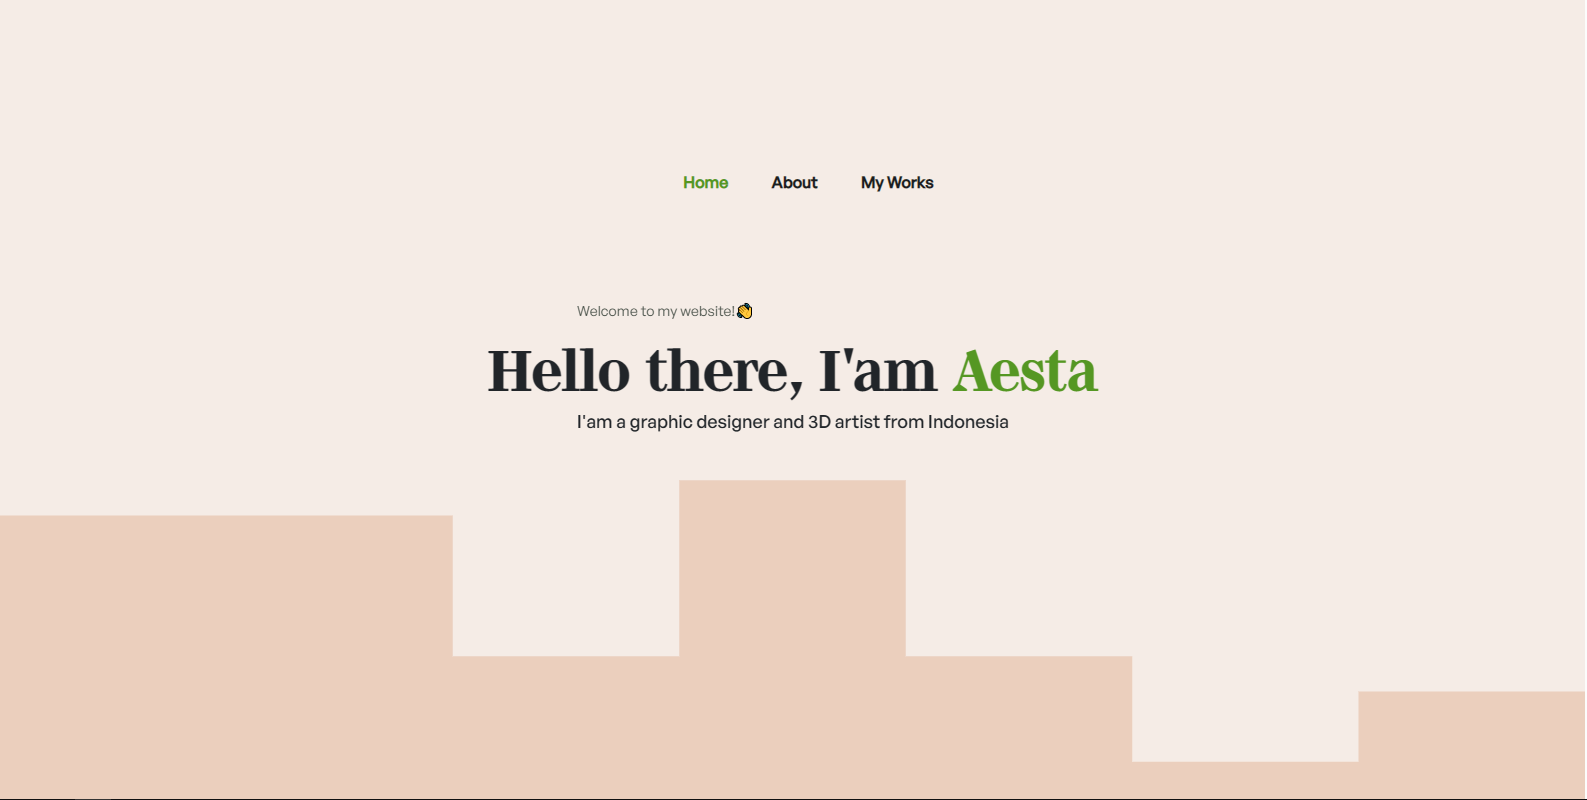
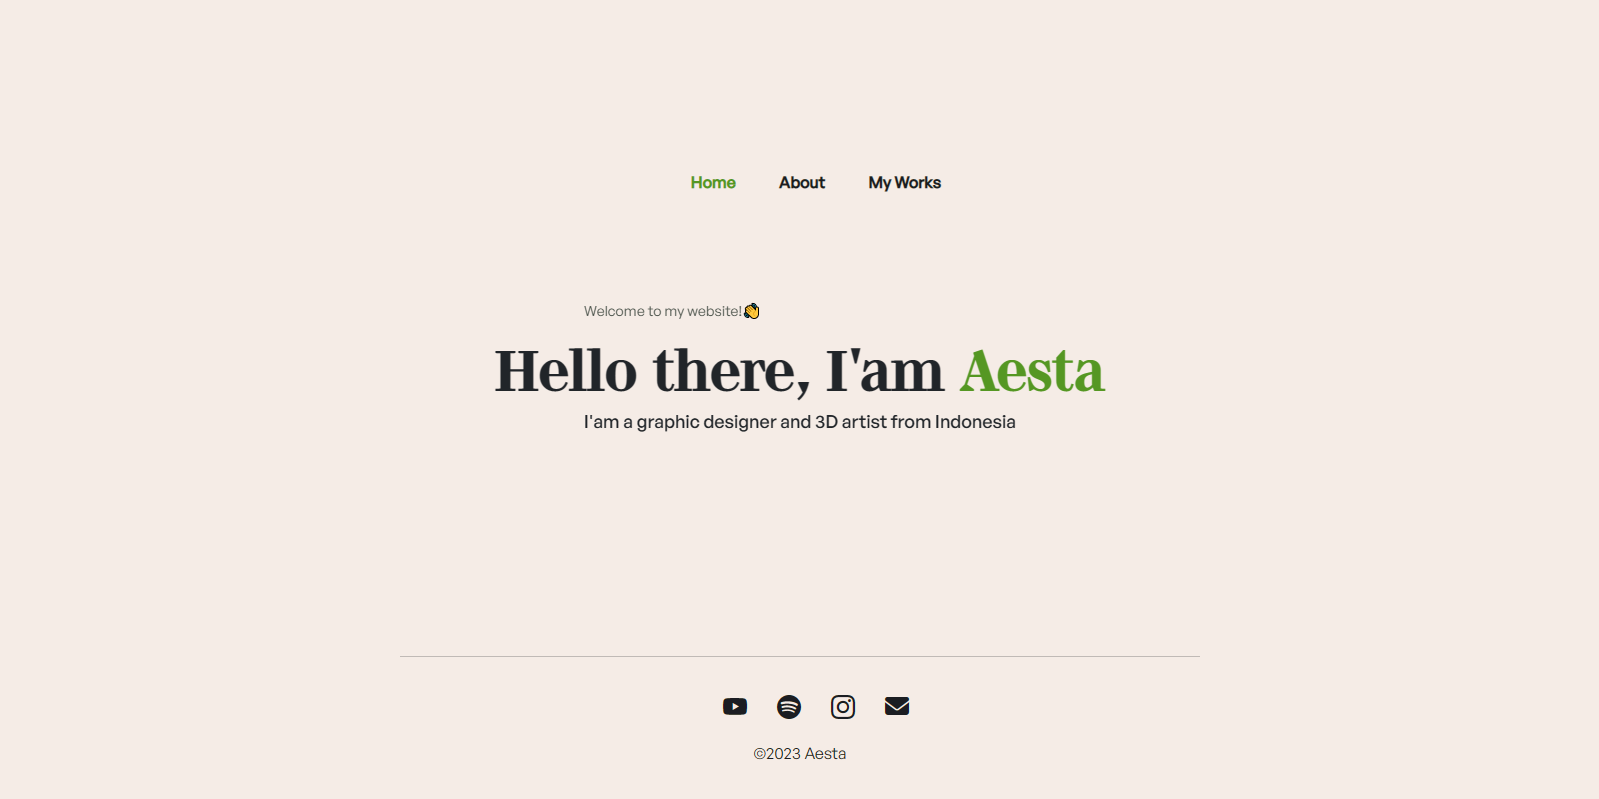
tambahan

diff --git a/about.html b/about.html
@@ -29,9 +29,9 @@
               <div class="col">
                 <nav>
                   <ul>
-                    <li><a href="./index.html">Home</a></li>
-                    <li><a href="./about.html"><span style="color: #559723">About</span></a></li>
-                    <li><a href="./works.html">My Works</a></li>
+                    <li><a href="./home">Home</a></li>
+                    <li><a href="./about"><span style="color: #559723">About</span></a></li>
+                    <li><a href="./works">My Works</a></li>
                   </ul>
                 </nav>
               </div>
@@ -41,21 +41,23 @@
             </div>
             <div class="row justify-content-center" style="padding-top: 3rem;">
               <div class="col-md-4 mb-5" data-aos="fade-right" data-aos-duration="1000">
-                <img src="img/ProfilePictureWow2.png" alt="index.html" width="300" class="rounded-circle">
+                <img src="img/ProfilePictureWow2.png" alt="Profike" width="300" class="rounded-circle">
               </div>
-              <div class="col-md-6" data-aos="fade-left" data-aos-duration="1000">
+              <div class="col-md-4" data-aos="fade-left" data-aos-duration="1000">
                 <p class="about-paraph">Yo hello! I'm Azmi also known as Aesta. A graphic designer based in Indonesia. I have loved making graphic designs since I was grade 5. Also I'm interesting on web designing, photography, 3D modeling, drawing, and editing. <a class="about-link" href="mailto:aestadoesarts@gmail.com">Interesting work together? Email me!</a></p>
                 <h5>Apps I used:</h5>
                 <p class="about-paraph">Adobe Photoshop, Visual Code Studio, Adobe Illustrator, Spline, Figma, Cinema 4D and Canva</p>
               </div>
             </div>
           </div>
-          <svg xmlns="http://www.w3.org/2000/svg" viewBox="0 0 1440 320"><path fill="#ebcfbd" fill-opacity="1" d="M0,160L0,64L205.7,64L205.7,64L411.4,64L411.4,192L617.1,192L617.1,32L822.9,32L822.9,192L1028.6,192L1028.6,288L1234.3,288L1234.3,224L1440,224L1440,320L1234.3,320L1234.3,320L1028.6,320L1028.6,320L822.9,320L822.9,320L617.1,320L617.1,320L411.4,320L411.4,320L205.7,320L205.7,320L0,320L0,320Z"></path></svg>
         </section>
+        <center>
+          <hr>
+         </center>
         <section class="footer p-3">
           <div class="footer-content">
             <ul class="socials">
-              <li><a href="#home"><i class="bi bi-youtube"></i></li>
+              <li><a href="https://www.youtube.com/@aestatime"><i class="bi bi-youtube"></i></li>
               <li><a href="https://open.spotify.com/user/cu73e0d8q3rm26srqaoc4n3gd?si=bb248786debc4e4d"><i class="bi bi-spotify"></i></a></li>
               <li><a href="https://instagram.com/azm.mfthl?igshid=ZDdkNTZiNTM="><i class="bi bi-instagram"></i></a></li>
               <li><a href="mailto:aestadoesarts@gmail.com"><i class="fa-solid fa-envelope"></i></a></li>

diff --git a/works.html b/works.html
@@ -17,6 +17,7 @@
     <link rel="stylesheet" href="style.css">
     <link href="https://api.fontshare.com/v2/css?f[]=clash-display@500&display=swap" rel="stylesheet">
     <link href="https://api.fontshare.com/v2/css?f[]=cabinet-grotesk@800&display=swap" rel="stylesheet">
+    <link href="https://api.fontshare.com/v2/css?f[]=supreme@700&display=swap" rel="stylesheet">
 
 
   </head>
@@ -27,9 +28,9 @@
                 <div class="col">
                     <nav>
                         <ul>
-                          <li><a href="./index.html">Home</a></li>
-                          <li><a href="./about.html">About</a></li>
-                          <li><a href="./works.html"><span style="color: #559723">My Works</span></a></li>
+                          <li><a href="./home">Home</a></li>
+                          <li><a href="./about">About</a></li>
+                          <li><a href="./works"><span style="color: #559723">My Works</span></a></li>
                         </ul>
                       </nav>
                 </div>
@@ -78,12 +79,14 @@
               </div>
             </div>
         </div>
-        <svg xmlns="http://www.w3.org/2000/svg" viewBox="0 0 1440 320"><path fill="#ebcfbd" fill-opacity="1" d="M0,160L0,64L205.7,64L205.7,64L411.4,64L411.4,192L617.1,192L617.1,32L822.9,32L822.9,192L1028.6,192L1028.6,288L1234.3,288L1234.3,224L1440,224L1440,320L1234.3,320L1234.3,320L1028.6,320L1028.6,320L822.9,320L822.9,320L617.1,320L617.1,320L411.4,320L411.4,320L205.7,320L205.7,320L0,320L0,320Z"></path></svg>
     </section>
+    <center>
+      <hr>
+     </center>
     <section class="footer p-3">
       <div class="footer-content">
         <ul class="socials">
-          <li><a href="#home"><i class="bi bi-youtube"></i></li>
+          <li><a href="https://www.youtube.com/@aestatime"><i class="bi bi-youtube"></i></li>
           <li><a href="https://open.spotify.com/user/cu73e0d8q3rm26srqaoc4n3gd?si=bb248786debc4e4d"><i class="bi bi-spotify"></i></a></li>
           <li><a href="https://instagram.com/azm.mfthl?igshid=ZDdkNTZiNTM="><i class="bi bi-instagram"></i></a></li>
           <li><a href="mailto:aestadoesarts@gmail.com"><i class="fa-solid fa-envelope"></i></a></li>

diff --git a/home.html b/home.html
@@ -33,9 +33,9 @@
                   <div class="col-md-12">
                     <nav>
                       <ul>
-                        <li><a href="./index.html"><span style="color: #559723">Home</span></a></li>
-                        <li><a href="./about.html">About</a></li>
-                        <li><a href="./works.html">My Works</a></li>
+                        <li><a href="./home"><span style="color: #559723">Home</span></a></li>
+                        <li><a href="./about">About</a></li>
+                        <li><a href="./works">My Works</a></li>
                       </ul>
                     </nav>
                   </div>
@@ -49,12 +49,14 @@
                     <p class="desc1">I'am a graphic designer and 3D artist from Indonesia </p>
                   </div>
             </div>
-            <svg xmlns="http://www.w3.org/2000/svg" viewBox="0 0 1440 320"><path fill="#ebcfbd" fill-opacity="1" d="M0,160L0,64L205.7,64L205.7,64L411.4,64L411.4,192L617.1,192L617.1,32L822.9,32L822.9,192L1028.6,192L1028.6,288L1234.3,288L1234.3,224L1440,224L1440,320L1234.3,320L1234.3,320L1028.6,320L1028.6,320L822.9,320L822.9,320L617.1,320L617.1,320L411.4,320L411.4,320L205.7,320L205.7,320L0,320L0,320Z"></path></svg>
            </section>
+           <center>
+            <hr>
+           </center>
            <section class="footer p-3">
               <div class="footer-content">
                 <ul class="socials">
-                  <li><a href="#home"><i class="bi bi-youtube"></i></li>
+                  <li><a href="https://www.youtube.com/@aestatime"><i class="bi bi-youtube"></i></li>
                   <li><a href="https://open.spotify.com/user/cu73e0d8q3rm26srqaoc4n3gd?si=bb248786debc4e4d"><i class="bi bi-spotify"></i></a></li>
                   <li><a href="https://instagram.com/azm.mfthl?igshid=ZDdkNTZiNTM="><i class="bi bi-instagram"></i></a></li>
                   <li><a href="mailto:aestadoesarts@gmail.com"><i class="fa-solid fa-envelope"></i></a></li>

diff --git a/style.css b/style.css
@@ -53,6 +53,10 @@ html {
   color: var(--myColor);
 } */
 
+hr{
+  width: 55rem;
+}
+
 nav{
   justify-content: space-between;
   padding-top: 10rem;
@@ -96,6 +100,11 @@ ul li:hover ul.dropdown{
 }
 
 /* home */
+
+.home{
+  min-height: 40rem;
+}
+
 .home-text{
   margin-top: 5rem;
 }
@@ -148,18 +157,15 @@ ul li:hover ul.dropdown{
 
 /* My Work */
 .card-title{
+  font-family: 'Supreme', sans-serif;
   font-weight: bold;
 }
 
 .card{
-  background: #f7e3d7;
+  background: #f5e6df;
 }
 
 /* Footer */
-
-.footer{
-  background-color: #ebcfbd;
-}
 
 .socials{
   list-style: none;
